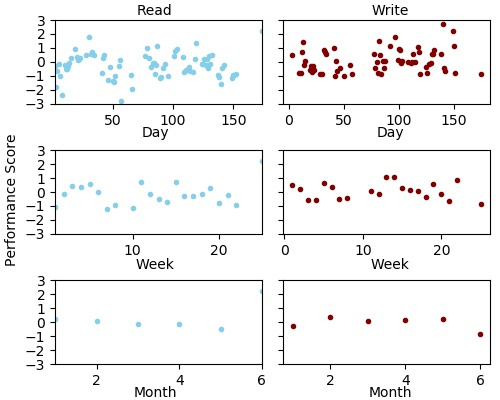
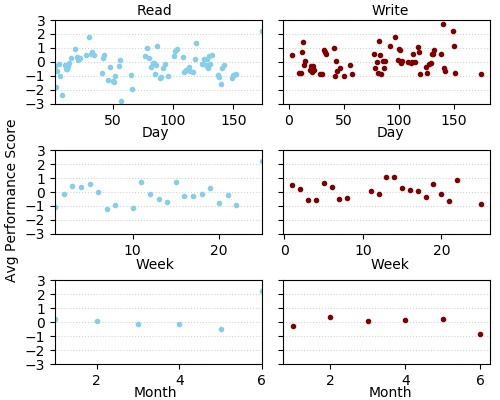
titles updates

Changed region(s): [[0.0, 0.3, 0.03, 0.72]]

diff --git a/example/simple_user.py b/example/simple_user.py
@@ -251,6 +251,8 @@ for app in top_apps:
         axes[n][0].set_ylim(-3, 3)
         axes[n][0].set_ylabel('')
         axes[n][0].set_yticks(np.arange(-3,4,1))
+        axes[n][0].yaxis.grid(color='lightgrey', linestyle=':')
+        axes[n][0].set_axisbelow(True)
         axes[n][0].set_xlabel(" ")
         axes[n][0].margins(0)
         # Now, write
@@ -264,6 +266,8 @@ for app in top_apps:
         axes[n][1].scatter(x, y, marker='.', color='maroon',label=op)
         axes[n][1].set_ylim(-3, 3)
         axes[n][1].set_ylabel('')
+        axes[n][1].yaxis.grid(color='lightgrey', linestyle=':')
+        axes[n][1].set_axisbelow(True)
     fig.subplots_adjust(left=0.11, bottom=0.09, right=.98, top=.95, wspace=0.1, hspace=0.55)
     fig.text(0.31, 0.65, x_axes[0], ha='center', va='bottom')
     fig.text(0.31, 0.32, x_axes[1], ha='center', va='bottom')
@@ -271,7 +275,7 @@ for app in top_apps:
     fig.text(0.78, 0.65, x_axes[0], ha='center', va='bottom')
     fig.text(0.78, 0.32, x_axes[1], ha='center', va='bottom')
     fig.text(0.78, 0.00, x_axes[2], ha='center', va='bottom')
-    fig.text(0.01, 0.5, 'Performance Score', ha='left', va='center', rotation=90)
+    fig.text(0.01, 0.5, 'Avg Performance Score', ha='left', va='center', rotation=90)
     fig.text(0.31, 0.99, 'Read', ha='center', va='top')
     fig.text(0.78, 0.99, 'Write', ha='center', va='top')
     plt.savefig(os.path.join(fig_path,'temp_v_perf_var-AVG.jpg'))
